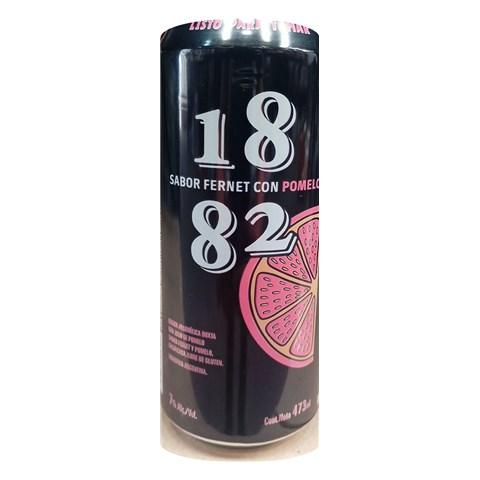
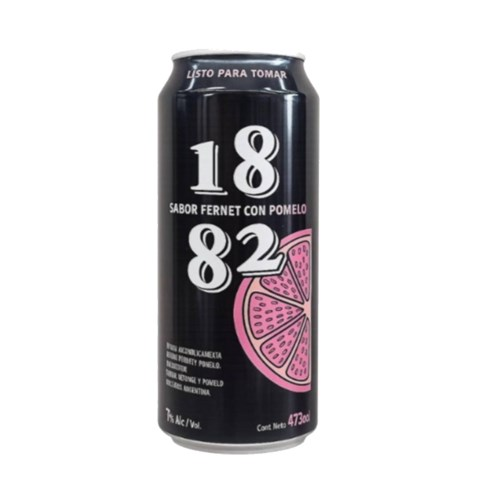
Cepas: foto nueva del 1882 sabor fernet con pomelo (fondo blanco)

Changed region(s): [[0.3125, 0.0312, 0.6875, 0.9688]]

diff --git a/catalogo-cepas.html b/catalogo-cepas.html
@@ -110,7 +110,7 @@ const esc = s => String(s).replace(/[&<>"]/g, c => ({'&':'&amp;','<':'&lt;','>':
 const fecha = iso => iso ? iso.split('-').reverse().join('/') : '';
 const limpiar = d => d.replace(/(\d)\?/g,'$1°').replace(/\s+/g,' ').trim();   // en Gescom el simbolo de grados llega como '?'
 const marca = d => ((d.match(/GANCIA|MARTINI|DR\.? ?LEMON|TERMA|TRES TORRES|AMARULA|BACARDI|FERNET|1882|PRONTO/i) || ['CEPAS'])[0].toUpperCase());
-const FOTOS_V = '4';   // cambiar cuando se reemplazan las fotos, para que el navegador no muestre las viejas
+const FOTOS_V = '5';   // cambiar cuando se reemplazan las fotos, para que el navegador no muestre las viejas
 const norm = s => String(s).normalize('NFD').replace(/[̀-ͯ]/g,'').toLowerCase();
 // Segmentos tildados: ninguno = se ven todos; uno o varios = solo esos (se combinan con el buscador)
 const elegidos = new Set();
